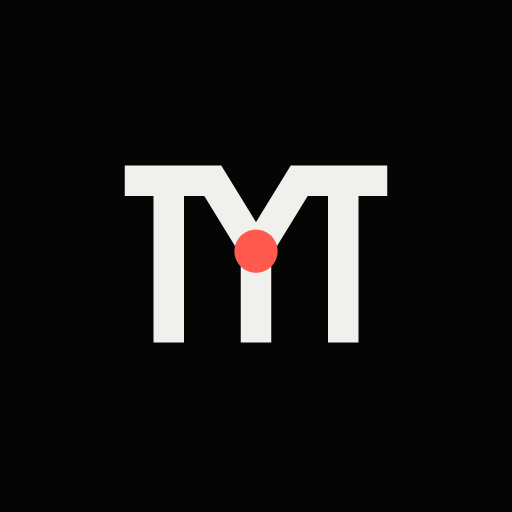
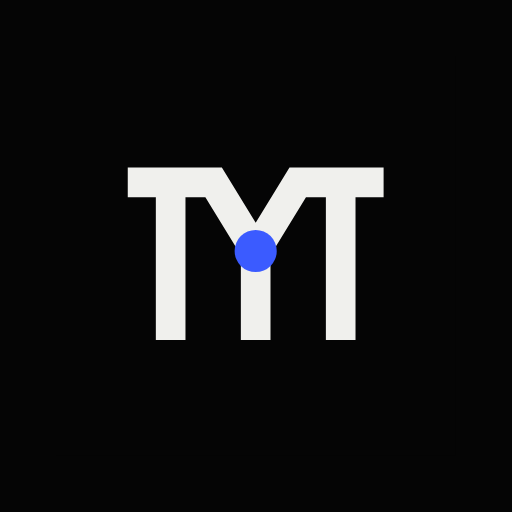
feat(marca): TyT pasa a azul #3B5BFF (D-040)

diff --git a/src/experience/posters.ts b/src/experience/posters.ts
@@ -26,7 +26,7 @@ interface Palette {
 }
 
 const PALETTES: Record<PosterStyle, Palette> = {
-  dark: { bg: ['#0c0c0d', '#060606'], fg: '#f2f1ee', accent: '#e10600', accent2: '#2a2928', bar: '#151515' },
+  dark: { bg: ['#0c0c0d', '#060606'], fg: '#f2f1ee', accent: '#3b5bff', accent2: '#2a2928', bar: '#151515' },
   green: { bg: ['#0f4a34', '#051c13'], fg: '#f1ead8', accent: '#7fd6a0', accent2: '#0a3323', bar: '#082318' },
   yellow: { bg: ['#060606', '#060606'], fg: '#ffffff', accent: '#f7b500', accent2: '#1f9d4d', bar: '#000000' },
   blue: { bg: ['#0a22ff', '#19d2ff'], fg: '#ffffff', accent: '#ffffff', accent2: '#0618b8', bar: '#0a1fe6' },

diff --git a/src/index.css b/src/index.css
@@ -25,12 +25,12 @@
   --color-ink-soft: #b9b7b2;
   --color-mist: #8a8884;
   --color-line: #2c2c2c;
-  /* Rojo de marca TyT. red-ink es el rojo legible para texto pequeño sobre negro. */
-  --color-red: #e10600;
-  --color-red-ink: #ff5a4d;
+  /* Azul de marca TyT (D-040). red-ink es el azul legible para texto pequeño sobre negro. */
+  --color-red: #3b5bff;
+  --color-red-ink: #7d92ff;
   --color-on-red: #ffffff;
-  --color-red-bright: #ff1e0e;
-  --color-red-soft: #ff5a4d;
+  --color-red-bright: #5c76ff;
+  --color-red-soft: #7d92ff;
   --color-coal: #0e0e0e;
   --color-coal-lift: #171717;
   --color-coal-line: #2a2a2a;

diff --git a/src/experience/worlds.ts b/src/experience/worlds.ts
@@ -114,7 +114,7 @@ class Agents {
     const c = new THREE.Color()
     for (let i = 0; i < n; i++) {
       Agents.COLORS.forEach((hex, k) => this.lit!.setColorAt(i * Agents.LIT + k, c.setHex(hex)))
-      for (let k = 0; k < Agents.GLOW; k++) this.glow.setColorAt(i * Agents.GLOW + k, c.setHex(0xff2a12))
+      for (let k = 0; k < Agents.GLOW; k++) this.glow.setColorAt(i * Agents.GLOW + k, c.setHex(0x3b5bff))
     }
     this.lit.frustumCulled = this.glow.frustumCulled = false
     for (let i = 0; i < n; i++) this.pose(i, 0, 0, 0)
